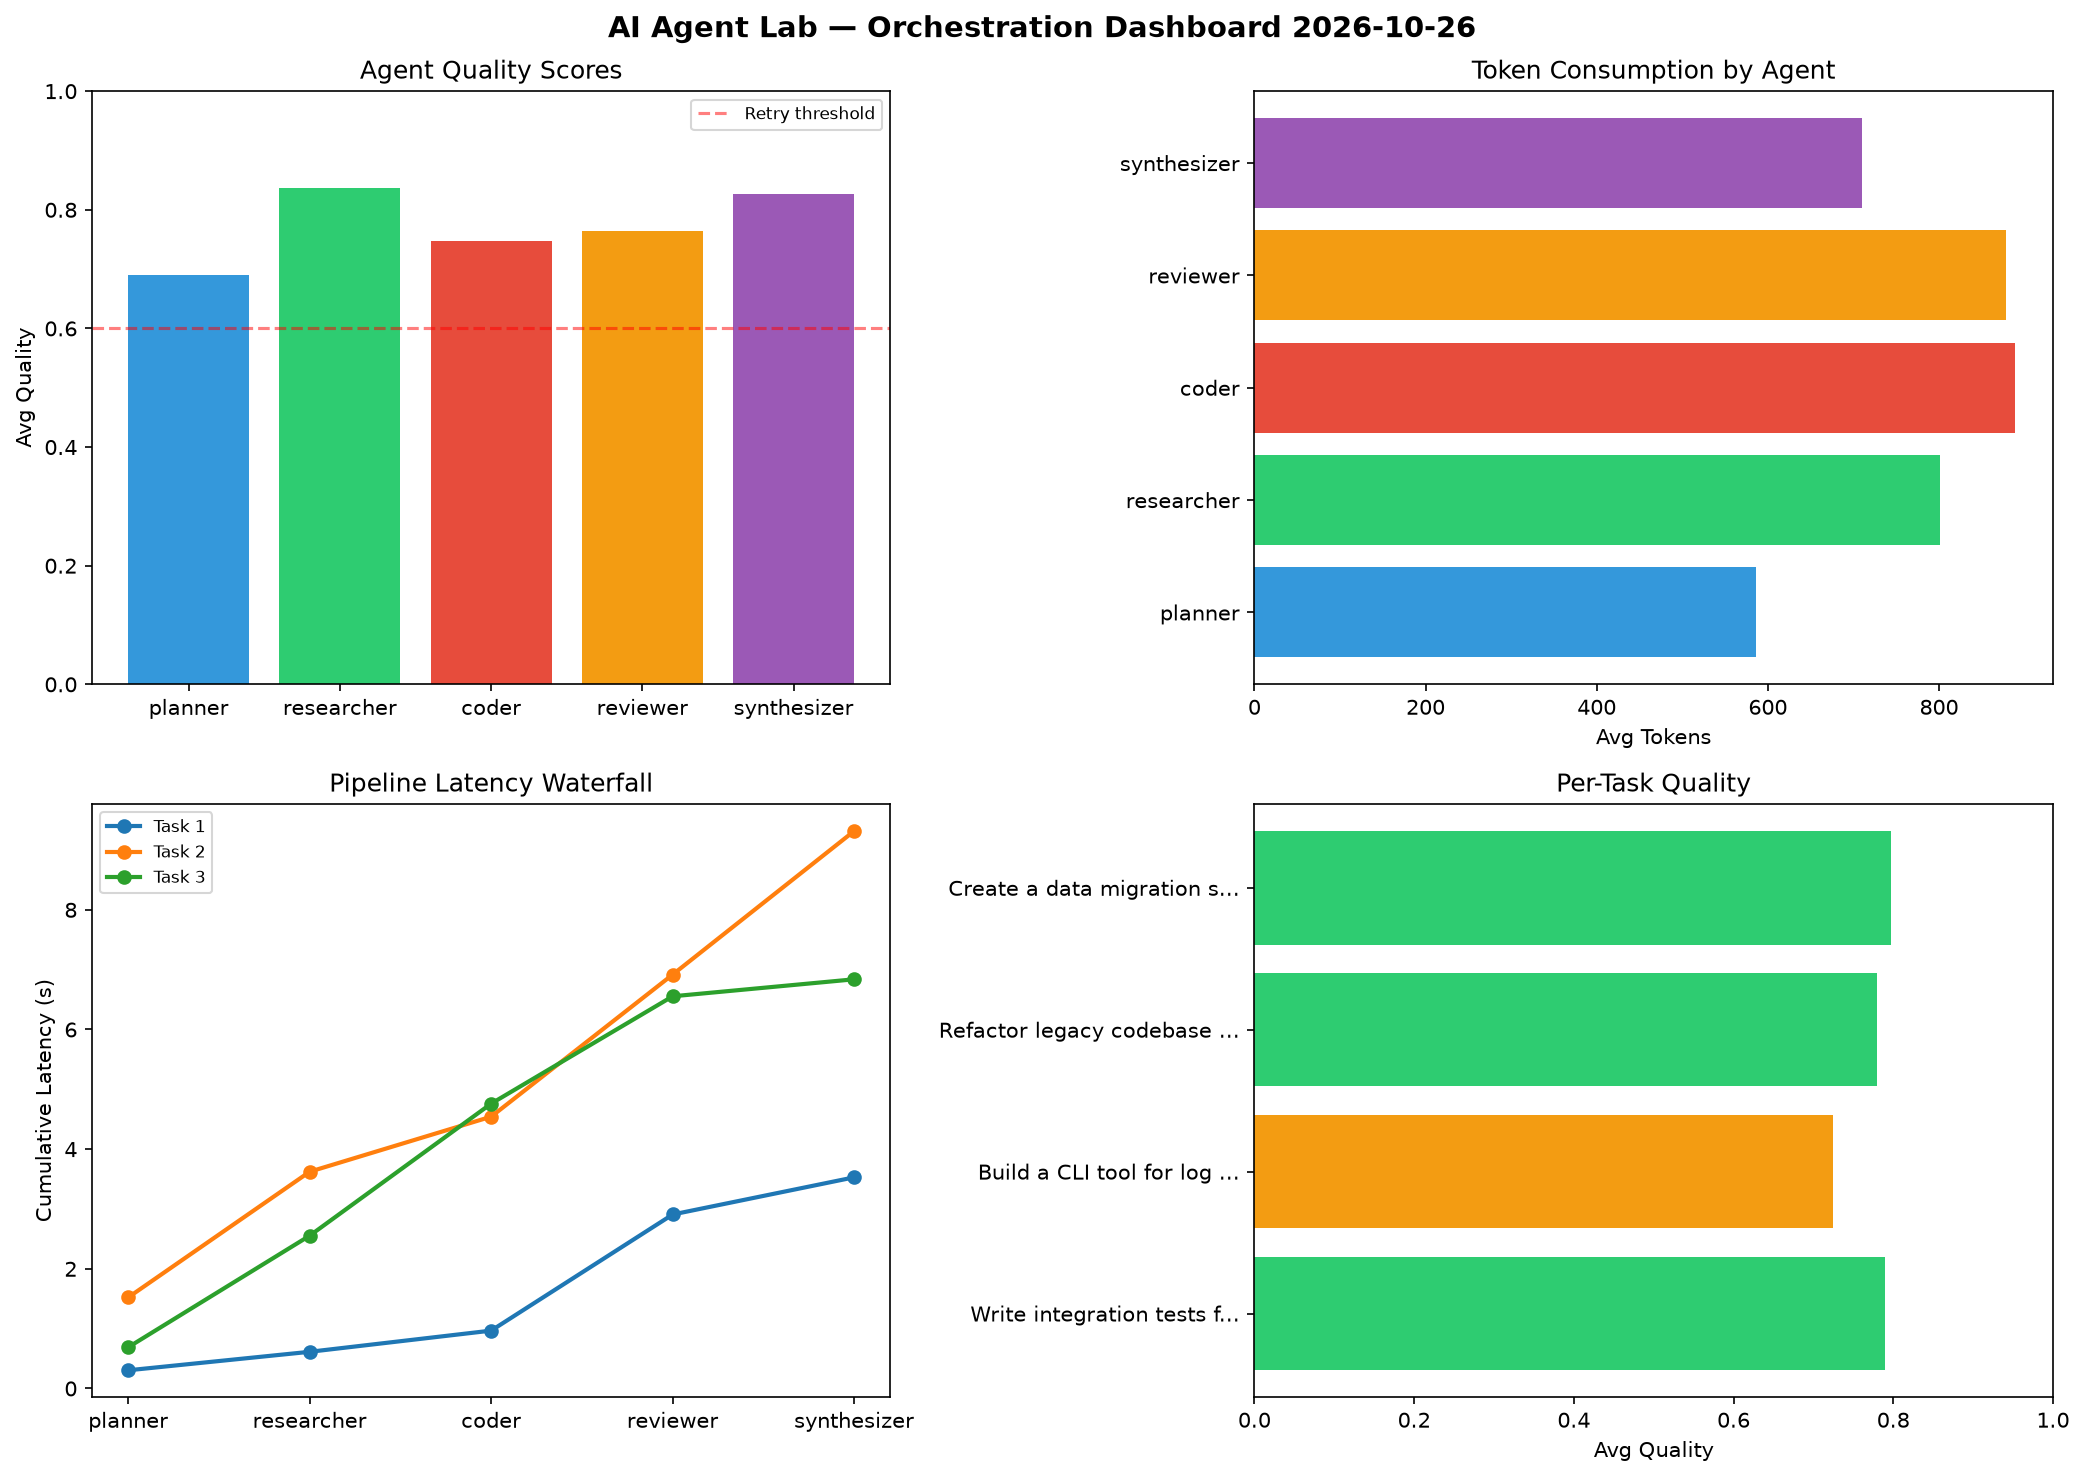
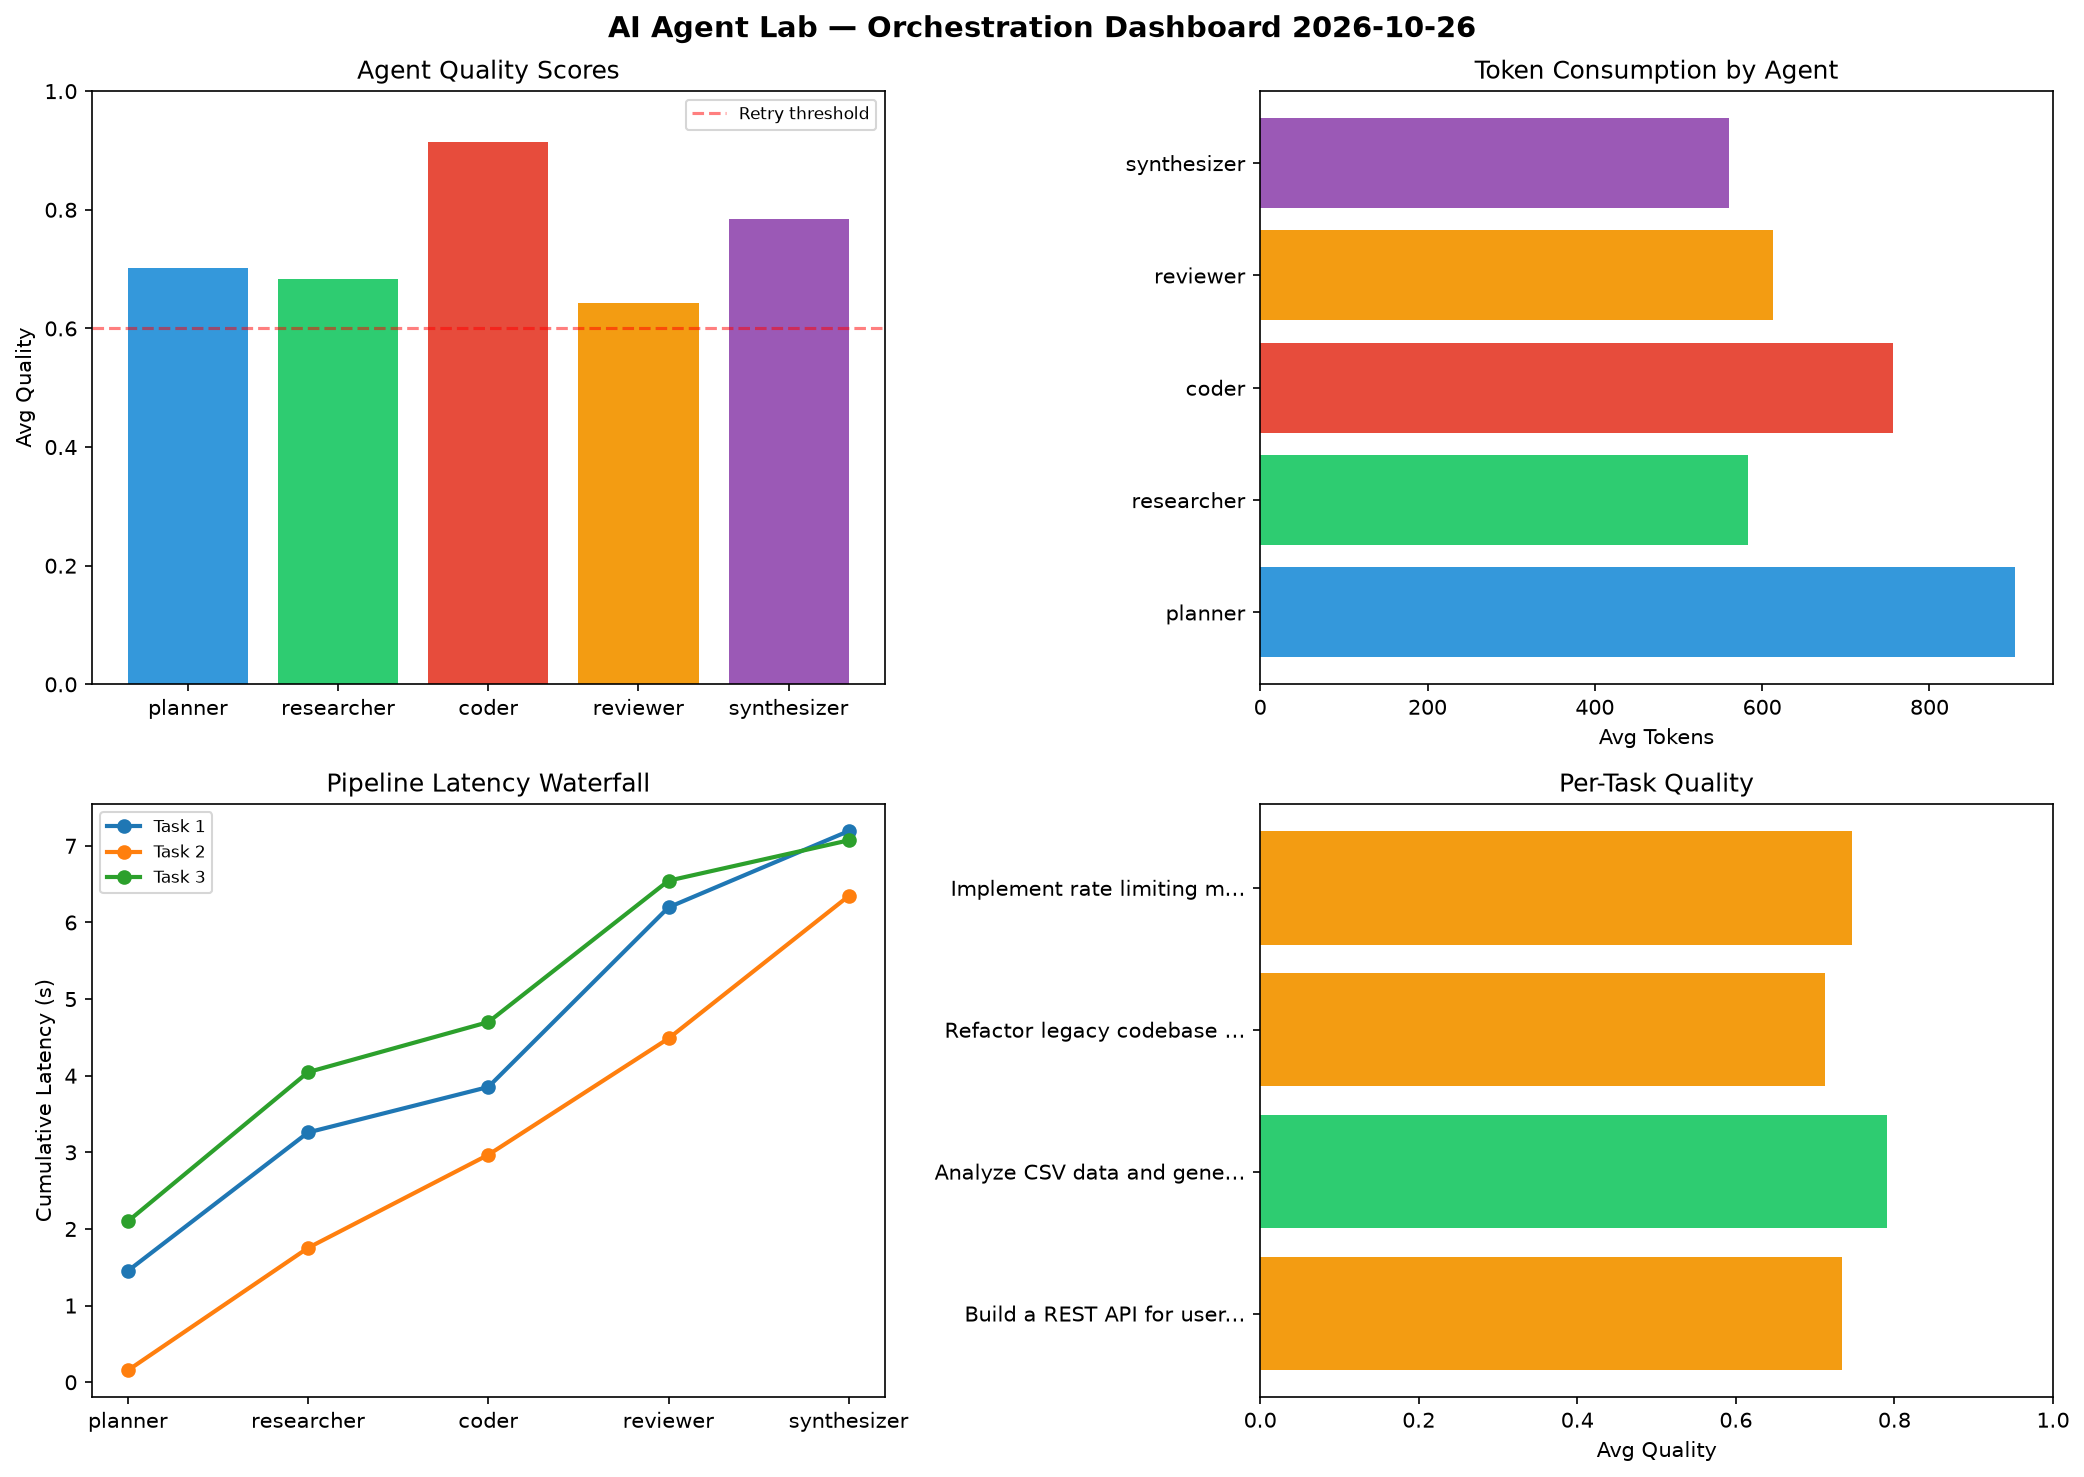
ai-agent-lab: orchestration run 2026-10-26T15:12

diff --git a/logs/2026-10-26.md b/logs/2026-10-26.md
@@ -1,6 +1,6 @@
 # AI Agent Lab — Orchestration Report 2026-10-26
 
-**Run ID:** `1c00fc0baf` | **Tasks:** 4 | **Avg Quality:** 0.773
+**Run ID:** `afb8fabe1c` | **Tasks:** 4 | **Avg Quality:** 0.746
 
 ![Dashboard](2026-10-26_dashboard.png)
 
@@ -8,52 +8,52 @@
 
 | Metric | Value |
 |--------|-------|
-| avg_latency | 7.155 |
-| total_tokens | 15455 |
-| avg_quality | 0.773 |
+| avg_latency | 6.839 |
+| total_tokens | 13660 |
+| avg_quality | 0.746 |
 
 ## Delta vs Yesterday
 
 | Metric | Today | Yesterday | Change |
 |--------|-------|-----------|--------|
-| avg_latency | 7.155 | 6.074 | 📈 17.8% |
-| total_tokens | 15455 | 15521 | 📉 -0.4% |
-| avg_quality | 0.773 | 0.696 | 📈 11.1% |
+| avg_latency | 6.839 | 6.074 | 📈 12.6% |
+| total_tokens | 13660 | 15521 | 📉 -12.0% |
+| avg_quality | 0.746 | 0.696 | 📈 7.2% |
 
 ## Pipeline Results
 
-### Write integration tests for payment processing module
+### Build a REST API for user authentication
 | Agent | Quality | Latency | Tokens | Status |
 |-------|---------|---------|--------|--------|
-| planner | 0.618 | 0.304s | 200 | success |
-| researcher | 0.908 | 0.309s | 954 | success |
-| coder | 0.614 | 0.354s | 944 | success |
-| reviewer | 0.943 | 1.941s | 578 | success |
-| synthesizer | 0.867 | 0.621s | 562 | success |
+| planner | 0.66 | 1.454s | 905 | success |
+| researcher | 0.682 | 1.806s | 616 | success |
+| coder | 0.983 | 0.593s | 747 | success |
+| reviewer | 0.527 | 2.344s | 719 | needs_retry |
+| synthesizer | 0.816 | 0.996s | 477 | success |
 
-### Build a CLI tool for log analysis
+### Analyze CSV data and generate statistical summary
 | Agent | Quality | Latency | Tokens | Status |
 |-------|---------|---------|--------|--------|
-| planner | 0.666 | 1.522s | 1009 | success |
-| researcher | 0.873 | 2.101s | 765 | success |
-| coder | 0.585 | 0.92s | 356 | needs_retry |
-| reviewer | 0.549 | 2.375s | 1261 | needs_retry |
-| synthesizer | 0.954 | 2.399s | 791 | success |
+| planner | 0.966 | 0.156s | 907 | success |
+| researcher | 0.581 | 1.598s | 588 | needs_retry |
+| coder | 0.86 | 1.214s | 615 | success |
+| reviewer | 0.594 | 1.518s | 223 | needs_retry |
+| synthesizer | 0.953 | 1.859s | 554 | success |
 
 ### Refactor legacy codebase to use dependency injection
 | Agent | Quality | Latency | Tokens | Status |
 |-------|---------|---------|--------|--------|
-| planner | 0.823 | 0.689s | 252 | success |
-| researcher | 0.577 | 1.865s | 836 | needs_retry |
-| coder | 0.901 | 2.207s | 1035 | success |
-| reviewer | 0.666 | 1.794s | 691 | success |
-| synthesizer | 0.934 | 0.284s | 790 | success |
+| planner | 0.541 | 2.101s | 785 | needs_retry |
+| researcher | 0.878 | 1.946s | 401 | success |
+| coder | 0.962 | 0.653s | 1027 | success |
+| reviewer | 0.521 | 1.845s | 782 | needs_retry |
+| synthesizer | 0.656 | 0.527s | 456 | success |
 
-### Create a data migration script for schema v2
+### Implement rate limiting middleware
 | Agent | Quality | Latency | Tokens | Status |
 |-------|---------|---------|--------|--------|
-| planner | 0.656 | 2.053s | 882 | success |
-| researcher | 0.99 | 1.057s | 651 | success |
-| coder | 0.888 | 1.857s | 1220 | success |
-| reviewer | 0.9 | 1.702s | 982 | success |
-| synthesizer | 0.552 | 2.266s | 696 | needs_retry |
+| planner | 0.643 | 0.412s | 1013 | success |
+| researcher | 0.59 | 1.854s | 727 | needs_retry |
+| coder | 0.853 | 1.777s | 635 | success |
+| reviewer | 0.929 | 1.812s | 729 | success |
+| synthesizer | 0.715 | 0.891s | 754 | success |
